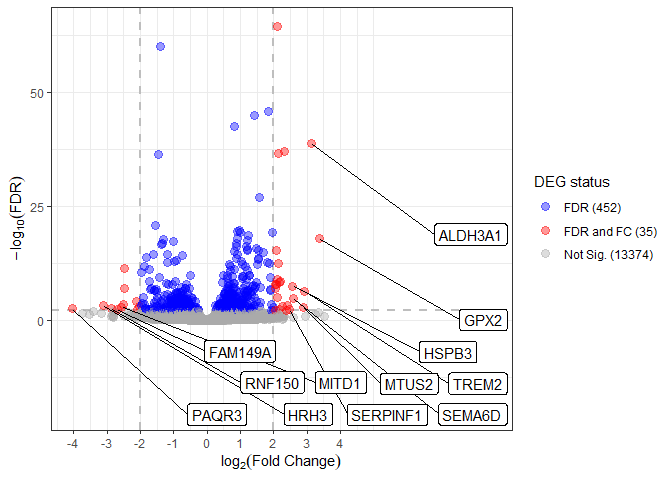
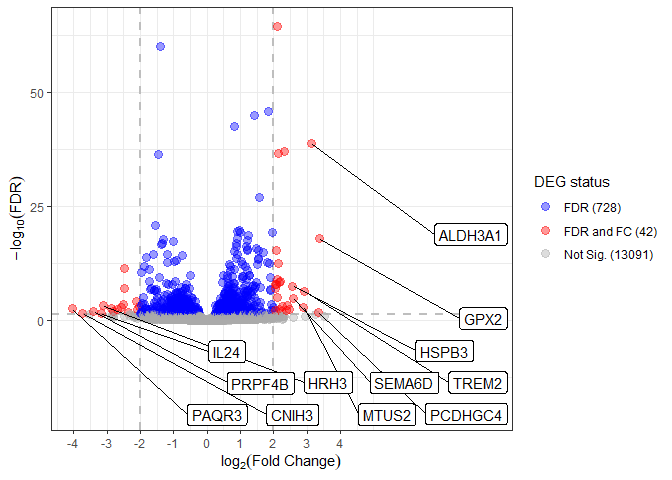
Updated report with barplot

diff --git a/code/DEG_exploration.md b/code/DEG_exploration.md
@@ -88,7 +88,7 @@ We will first visualize DEGs by group using volcano plots. We will
 define DEGs as follow:
 
 ``` r
-alpha <- 0.01
+alpha <- 0.05
 log2FC <- 2
 ```
 
@@ -225,12 +225,94 @@ candidate_genes
 ```
 
     ##  [1] "ENSG00000133661.17" "ENSG00000168679.18" "ENSG00000108602.18"
-    ##  [4] "ENSG00000132938.22" "ENSG00000180638.19" "ENSG00000100985.7" 
-    ##  [7] "ENSG00000105825.14" "ENSG00000115461.5"  "ENSG00000124256.15"
-    ## [10] "ENSG00000126709.16" "ENSG00000134326.12" "ENSG00000157601.15"
-    ## [13] "ENSG00000165799.5"  "ENSG00000165949.13" "ENSG00000168961.17"
-    ## [16] "ENSG00000183486.14" "ENSG00000196684.12" "ENSG00000101180.17"
-    ## [19] "ENSG00000101825.8"  "ENSG00000109794.14" "ENSG00000132386.11"
-    ## [22] "ENSG00000137872.17" "ENSG00000145147.20" "ENSG00000145824.13"
-    ## [25] "ENSG00000169271.3"  "ENSG00000171227.7"  "ENSG00000171346.16"
-    ## [28] "ENSG00000171873.8"  "ENSG00000227507.3"
+    ##  [4] "ENSG00000132938.22" "ENSG00000180638.19" "ENSG00000051382.9" 
+    ##  [7] "ENSG00000076258.10" "ENSG00000086848.15" "ENSG00000100612.14"
+    ## [10] "ENSG00000100985.7"  "ENSG00000101844.18" "ENSG00000105825.14"
+    ## [13] "ENSG00000108654.16" "ENSG00000115461.5"  "ENSG00000119041.11"
+    ## [16] "ENSG00000121552.4"  "ENSG00000124256.15" "ENSG00000126709.16"
+    ## [19] "ENSG00000134326.12" "ENSG00000157601.15" "ENSG00000164331.10"
+    ## [22] "ENSG00000165799.5"  "ENSG00000165949.13" "ENSG00000168874.13"
+    ## [25] "ENSG00000168961.17" "ENSG00000183486.14" "ENSG00000196684.12"
+    ## [28] "ENSG00000101180.17" "ENSG00000101825.8"  "ENSG00000109794.14"
+    ## [31] "ENSG00000132386.11" "ENSG00000137872.17" "ENSG00000145147.20"
+    ## [34] "ENSG00000145824.13" "ENSG00000162892.16" "ENSG00000169271.3" 
+    ## [37] "ENSG00000171227.7"  "ENSG00000171346.16" "ENSG00000171873.8" 
+    ## [40] "ENSG00000197406.8"  "ENSG00000227507.3"
+
+## Determine if genes reverted expression change
+
+We start with the most simple scenario where any gene that showed a
+change of expression in H2O2 vs Control AND Treatment vs H2O2 is
+considered for the analysis.
+
+``` r
+candidate_exp <- vst_counts[ensembl_gene_id_version %in% candidate_genes]
+candidate_exp[, ensembl_gene_id_version := NULL]
+candidate_exp[, entrezgene_id := NULL]
+candidate_exp <- melt(candidate_exp, 
+                      id.vars = "external_gene_name", 
+                      variable.name = "Group", 
+                      value.name = "ExpCount")
+
+candidate_exp[, Group := str_replace(Group, "_[1-3]", "")]
+candidate_exp[, Group := factor(Group, 
+                                levels = c("Ctrl", "H2O2", 
+                                           "GEN9", "PNS2", 
+                                           "PTS3"))]
+candidate_exp <- candidate_exp[, .(mean_exp = mean(ExpCount)), by = c("external_gene_name", "Group")]
+setkey(candidate_exp, "external_gene_name")
+```
+
+``` r
+temp <- dcast(candidate_exp, external_gene_name ~ Group, value.var = "mean_exp")
+temp <- temp[, .(baseline = H2O2 - Ctrl, 
+                 DGEN9 = H2O2 - GEN9, 
+                 DPNS2 = H2O2 - PNS2, 
+                 DPTS3 = H2O2 - PTS3), 
+             by = external_gene_name]
+temp <- temp[, .(GEN9_vs_H2O2 = round(DGEN9/baseline*100, 2),
+                 PNS2_vs_H2O2 = round(DPNS2/baseline*100, 2), 
+                 PTS3_vs_H2O2 = round(DPTS3/baseline*100, 2)), 
+             by = external_gene_name]
+temp <- melt(temp, 
+             id.vars = "external_gene_name", 
+             variable.name = "Group", 
+             value.name = "Recovery")
+temp[, Recovery := ifelse(Recovery < 0, Recovery - 100, Recovery)]
+
+setkeyv(degs, c("external_gene_name", "Group"))
+deg_status <- degs[temp[, .SD, 
+                        .SDcols = c("external_gene_name", "Group")],
+                   .(external_gene_name, 
+                     Group, 
+                     FDR = ifelse(padj < alpha, TRUE, FALSE))]
+temp <- merge.data.table(temp, deg_status)
+temp[, Category := ifelse(FDR == FALSE | is.na(FDR), 
+                          "Not Significant", 
+                          ifelse(Recovery < 0, 
+                                 "Amplified Stress Response", 
+                                 ifelse(Recovery < 100, 
+                                        "Partially Restored", 
+                                        "Amplified Recovery Response")))]
+
+temp[, Category := factor(Category, levels = c("Amplified Recovery Response", "Partially Restored", "Amplified Stress Response", "Not Significant"))]
+
+exp_percent <- temp
+```
+
+``` r
+ggplot(exp_percent, 
+       aes(y = external_gene_name, 
+           x = Recovery, 
+           fill = Category)) +
+  geom_bar(stat = "identity", color = "black", 
+           position = position_dodge()) + 
+  geom_vline(xintercept = c(100, -100), 
+             colour = "red", linetype = "dashed")+
+  scale_fill_manual(values = c("green", "blue", "red", "white")) +
+  theme_bw() +
+  facet_grid(~Group) +
+  labs(x = "Recovered expression", y = NULL)
+```
+
+![](DEG_exploration_files/figure-gfm/unnamed-chunk-15-1.png)<!-- -->
